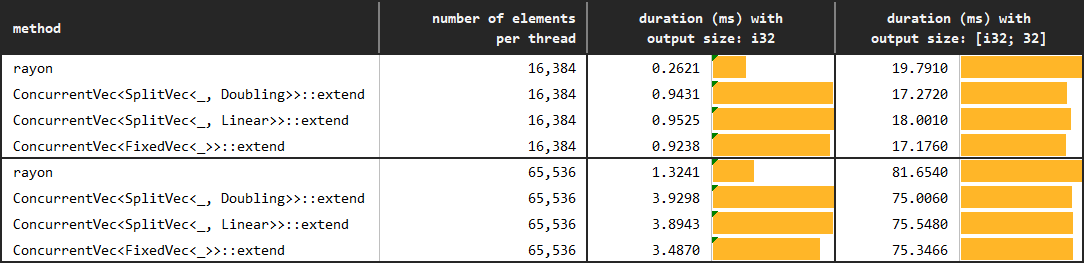
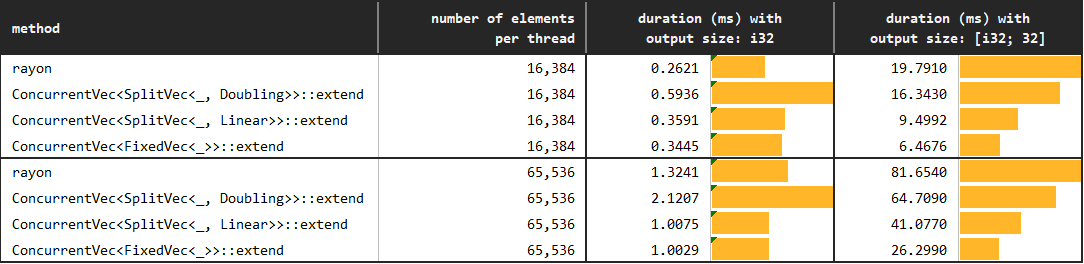
Performance improvements by faster mem zeroing
The main difference of `ConcurrentVec` from more performant `ConcurrentBag` is due to the fact that `ConcurrentVec` zeroes out new positions upon each new allocation. This is a requirement to provide safe versions of the `get` and `iter` methods; in other words, to allow safe concurrent read and write opeations.

In the prior version, memory zeroing had been handled by the concurrent bag's fill strategy which requires iteration over the new allocated positions.

In the new version. a memory zeroing concurrent bag is wrapped which now directly uses `PinnedVec`s `grow_to` method to zero out the memory on allocation. The implementations often reduce to a memset call and hence provides performance improvements.

Benchmarks are repeated, expected improvements are observed and reported.

diff --git a/src/vec.rs b/src/vec.rs
@@ -1,4 +1,4 @@
-use orx_concurrent_bag::{ConcurrentBag, EagerWithDefault};
+use orx_concurrent_bag::ConcurrentBag;
 use orx_fixed_vec::{FixedVec, PinnedVec, PinnedVecGrowthError};
 use orx_split_vec::{Doubling, Linear, SplitVec};
 
@@ -113,7 +113,8 @@ where
 impl<T> ConcurrentVec<T, SplitVec<Option<T>, Doubling>> {
     /// Creates a new concurrent vector by creating and wrapping up a new `SplitVec<Option<T>, Doubling>` as the underlying storage.
     pub fn with_doubling_growth() -> Self {
-        ConcurrentBag::with_doubling_growth().into()
+        let pinned = SplitVec::with_doubling_growth_and_fragments_capacity(32);
+        Self::from_pinned_vec(pinned)
     }
 
     /// Creates a new concurrent vector by creating and wrapping up a new `SplitVec<Option<T>, Doubling>` as the underlying storage.
@@ -160,8 +161,11 @@ impl<T> ConcurrentVec<T, SplitVec<Option<T>, Linear>> {
         constant_fragment_capacity_exponent: usize,
         fragments_capacity: usize,
     ) -> Self {
-        ConcurrentBag::with_linear_growth(constant_fragment_capacity_exponent, fragments_capacity)
-            .into()
+        let pinned = SplitVec::with_linear_growth_and_fragments_capacity(
+            constant_fragment_capacity_exponent,
+            fragments_capacity,
+        );
+        Self::from_pinned_vec(pinned)
     }
 }
 
@@ -176,7 +180,8 @@ impl<T> ConcurrentVec<T, FixedVec<Option<T>>> {
     ///
     /// This maximum capacity can be accessed by [`ConcurrentVec::maximum_capacity`] method.
     pub fn with_fixed_capacity(fixed_capacity: usize) -> Self {
-        ConcurrentBag::with_fixed_capacity(fixed_capacity).into()
+        let pinned = FixedVec::new(fixed_capacity);
+        Self::from_pinned_vec(pinned)
     }
 }
 
@@ -192,8 +197,7 @@ where
     /// * `ConcurrentVec<T>` can be constructed from any `PinnedVec<Option<T>>`, and
     /// * the underlying `PinnedVec<Option<T>>` can be obtained by `ConcurrentVec::into_inner(self)` method.
     fn from(pinned: P) -> Self {
-        let bag: ConcurrentBag<_, _> = pinned.into();
-        bag.into()
+        Self::from_pinned_vec(pinned)
     }
 }
 
@@ -207,7 +211,8 @@ where
     /// * `ConcurrentVec<T>` can be constructed from any `ConcurrentBag<Option<T>>` by calling `bag.into()`, and
     /// * the underlying `ConcurrentBag<Option<T>>` can be obtained from `ConcurrentVec<T>` by calling `con_vec.into()` method.
     fn from(bag: ConcurrentBag<Option<T>, P>) -> Self {
-        Self { bag }
+        let pinned = bag.into_inner();
+        Self::from_pinned_vec(pinned)
     }
 }
 
@@ -221,7 +226,8 @@ where
     /// * `ConcurrentVec<T>` can be constructed from any `ConcurrentBag<Option<T>>` by calling `bag.into()`, and
     /// * the underlying `ConcurrentBag<Option<T>>` can be obtained from `ConcurrentVec<T>` by calling `con_vec.into()` method.
     fn from(con_vec: ConcurrentVec<T, P>) -> Self {
-        con_vec.bag
+        let pinned = con_vec.bag.into_inner();
+        ConcurrentBag::from(pinned)
     }
 }
 
@@ -683,7 +689,7 @@ where
     /// However, this solution leads to increased memory requirement.
     #[inline(always)]
     pub fn push(&self, value: T) -> usize {
-        self.bag.push_and_fill::<EagerWithDefault>(Some(value))
+        self.bag.push(Some(value))
     }
 
     /// Concurrent, thread-safe method to push all `values` that the given iterator will yield to the back of the vector.
@@ -806,7 +812,7 @@ where
         Iter: Iterator<Item = T> + ExactSizeIterator,
     {
         let values = values.into_iter().map(Some);
-        self.bag.extend_and_fill::<_, _, EagerWithDefault>(values)
+        self.bag.extend::<_, _>(values)
     }
 
     /// Concurrent, thread-safe method to push `num_items` elements yielded by the `values` iterator to the back of the vector.
@@ -945,8 +951,7 @@ where
         IntoIter: IntoIterator<Item = T>,
     {
         let values = values.into_iter().map(Some);
-        self.bag
-            .extend_n_items_and_fill::<_, EagerWithDefault>(values, num_items)
+        self.bag.extend_n_items::<_>(values, num_items)
     }
 
     /// Clears the concurrent vector removing all already pushed elements.
@@ -973,6 +978,12 @@ where
     pub fn clear(&mut self) {
         self.bag.clear()
     }
+
+    // helpers
+    fn from_pinned_vec(pinned: P) -> Self {
+        let bag = ConcurrentBag::new_with_mem_zeroing(pinned);
+        Self { bag }
+    }
 }
 
 unsafe impl<T: Sync, P: PinnedVec<Option<T>>> Sync for ConcurrentVec<T, P> {}
@@ -981,9 +992,8 @@ unsafe impl<T: Send, P: PinnedVec<Option<T>>> Send for ConcurrentVec<T, P> {}
 
 #[cfg(test)]
 mod tests {
-    use orx_split_vec::Recursive;
-
     use super::*;
+    use orx_split_vec::Recursive;
     use std::{
         collections::HashSet,
         sync::{Arc, Mutex},

diff --git a/src/lib.rs b/src/lib.rs
@@ -120,6 +120,8 @@
 //! * Further, elements already pushed to the concurrent vector are immutable. In other words, if the value at a position is of `Some` variant, it will never change.
 //! * Therefore, it is possible to read already pushed elements without a race condition.
 //!
+//! <div id="section-benchmarks"></div>
+//!
 //! # C. Benchmarks
 //!
 //! ## Performance with `push`

diff --git a/benches/collect_with_extend.rs b/benches/collect_with_extend.rs
@@ -122,7 +122,7 @@ fn bench_grow(c: &mut Criterion) {
             })
         });
 
-        // ConcurrentBag
+        // ConcurrentVec
 
         let batch_sizes = vec![1, 2, 4, 16, 64, num_items_per_thread];
 

diff --git a/README.md b/README.md
@@ -120,6 +120,8 @@ In order to add safe concurrent reading feature to the concurrent bag, the follo
 * Further, elements already pushed to the concurrent vector are immutable. In other words, if the value at a position is of `Some` variant, it will never change.
 * Therefore, it is possible to read already pushed elements without a race condition.
 
+<div id="section-benchmarks"></div>
+
 # C. Benchmarks
 
 ## Performance with `push`
